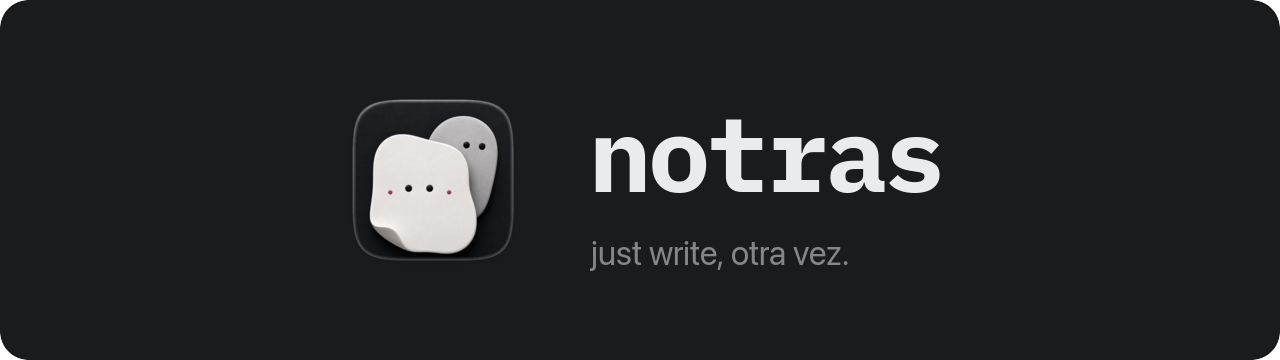
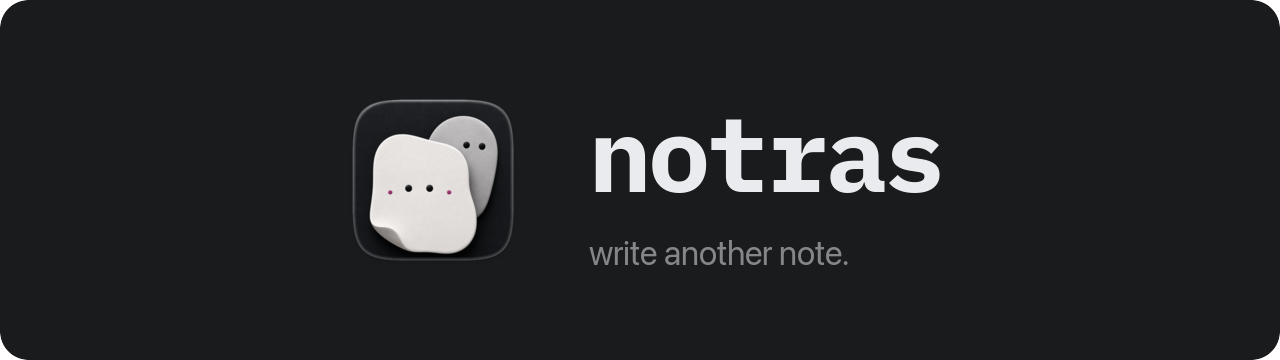
feat: ✨ new app tagline (#148)

Changed region(s): [[0.4375, 0.6722, 0.6562, 0.7333]]

diff --git a/src/routes/index.tsx b/src/routes/index.tsx
@@ -85,7 +85,7 @@ function Welcome({ onNew }: { onNew: () => void }) {
     <div className="flex flex-1 flex-col items-center justify-center gap-6">
       <div className="flex flex-col items-center gap-1">
         <h1 className="font-bold font-mono text-5xl tracking-tight">notras</h1>
-        <p className="text-muted-foreground">just write, otra vez.</p>
+        <p className="text-muted-foreground">write another note.</p>
       </div>
       <div className="flex items-center gap-4 text-muted-foreground text-sm">
         <Button onClick={onNew} variant="outline">

diff --git a/src/components/editor/extensions.ts b/src/components/editor/extensions.ts
@@ -414,7 +414,7 @@ export function createEditorExtensions(
       resolveSrc: options.resolveImageSrc ?? ((src: string) => src),
     }),
     Placeholder.configure({
-      placeholder: options.placeholderText ?? "just write...",
+      placeholder: options.placeholderText ?? "write another note...",
     }),
     Focus.configure({ className: "has-focus", mode: "shallowest" }),
     DragSelection,

diff --git a/DESIGN.md b/DESIGN.md
@@ -126,7 +126,7 @@ Motion carries a state change and nothing else. There is no decorative animation
 - Errors reach the user in two parts: what failed, in the app's copy, as the title, and why, from the error, as the description, through `reasonOf` in `src/lib/ui/failure.ts`. The title is a lowercase sentence naming the action, written at the call site; the reason comes from the typed failure or the schema that raises it, lowercase and without an error number.
 - **An empty state is `Empty`: a title, a description, and an action slot, at the sizes the component sets.** Find with no results reads `nothing found` over `start with # to search by tag`, and actions with none reads it over the chord that finds a note. Never leave a blank pane. A find that matched nothing is the one case with no empty state: the create row stands in its place.
 - A pane or screen that could not load is the same `Empty`, with the failure's two parts as its title and description and the retry as an outline button in its action slot.
-- The welcome screen, shown when no tab is open, is not an empty state: it is the wordmark, the tagline "just write, otra vez.", and the ⌘n / ⌘p hints, in its own markup. It says what to press.
+- The welcome screen, shown when no tab is open, is not an empty state: it is the wordmark, the tagline "write another note.", and the ⌘n / ⌘p hints, in its own markup. It says what to press.
 - Name what a control does rather than what it is. The palette entry is "move to folder", not "folder".
 
 ## Accessibility

diff --git a/README.md b/README.md
@@ -1,4 +1,4 @@
-![notras: just write, otra vez.](assets/hero.png)
+![notras: write another note.](assets/hero.png)
 
 # notras
 
